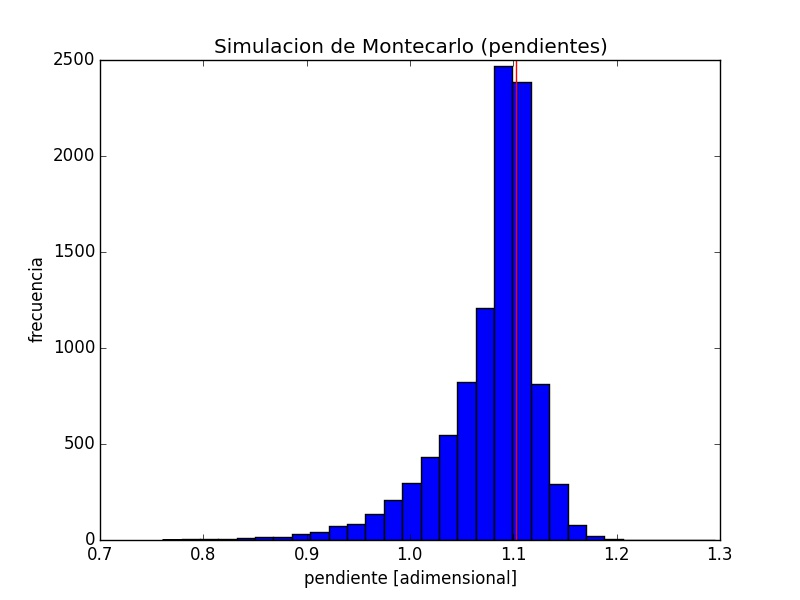
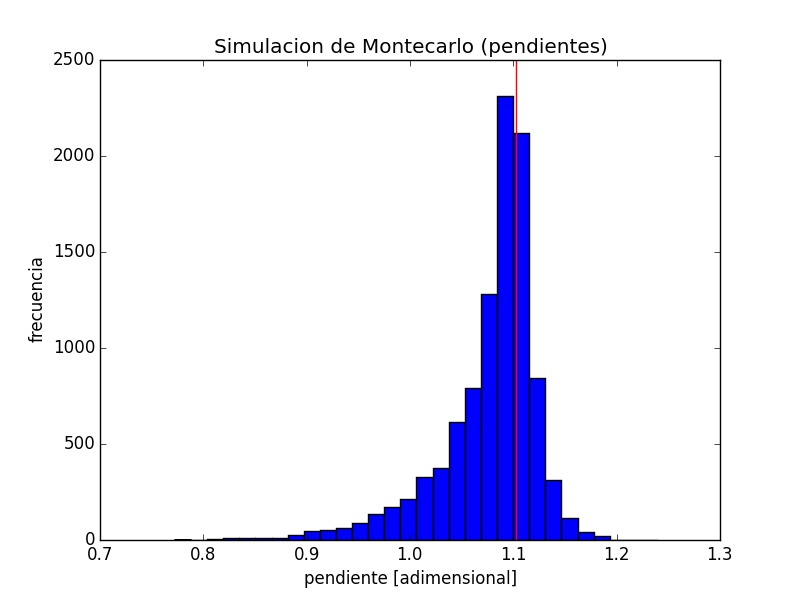
arreglo coef de posicion (plot)

Changed region(s): [[0.3125, 0.09, 0.7812, 0.9]]

diff --git a/p3.py b/p3.py
@@ -47,8 +47,8 @@ def mc(banda_i, error_i, banda_z, error_z, c_0):
 
     fig3 = plt.figure()
     ax3 = fig3.add_subplot(111)
-    ax3.hist(pendiente, bins=30)
-    ax3.axvline(c[0], color='r')
+    ax3.hist(cte, bins=30)
+    ax3.axvline(c[1], color='r')
     ax3.set_title("Simulacion de Montecarlo (coef de posicion)")
     ax3.set_xlabel("coef de posicion [adimensional]")
     ax3.set_ylabel("frecuencia")

diff --git a/p2.py b/p2.py
@@ -21,7 +21,6 @@ def mostrar_datos(distancia, vel, H1, H2, H_prom):
     fig.set_ylabel("Velocidad [Km/s]")
     plt.legend(loc=2)
     plt.savefig("hubble_2.jpg")
-    plt.show()
 
 
 def f_modelo_1(params, x):
@@ -89,3 +88,4 @@ H_0 = a_prom
 mostrar_datos(distancia, vel, a_optimo_1, a_optimo_2, a_prom)
 
 intervalo_confianza = bootstrap(data, H_0)
+plt.show()
